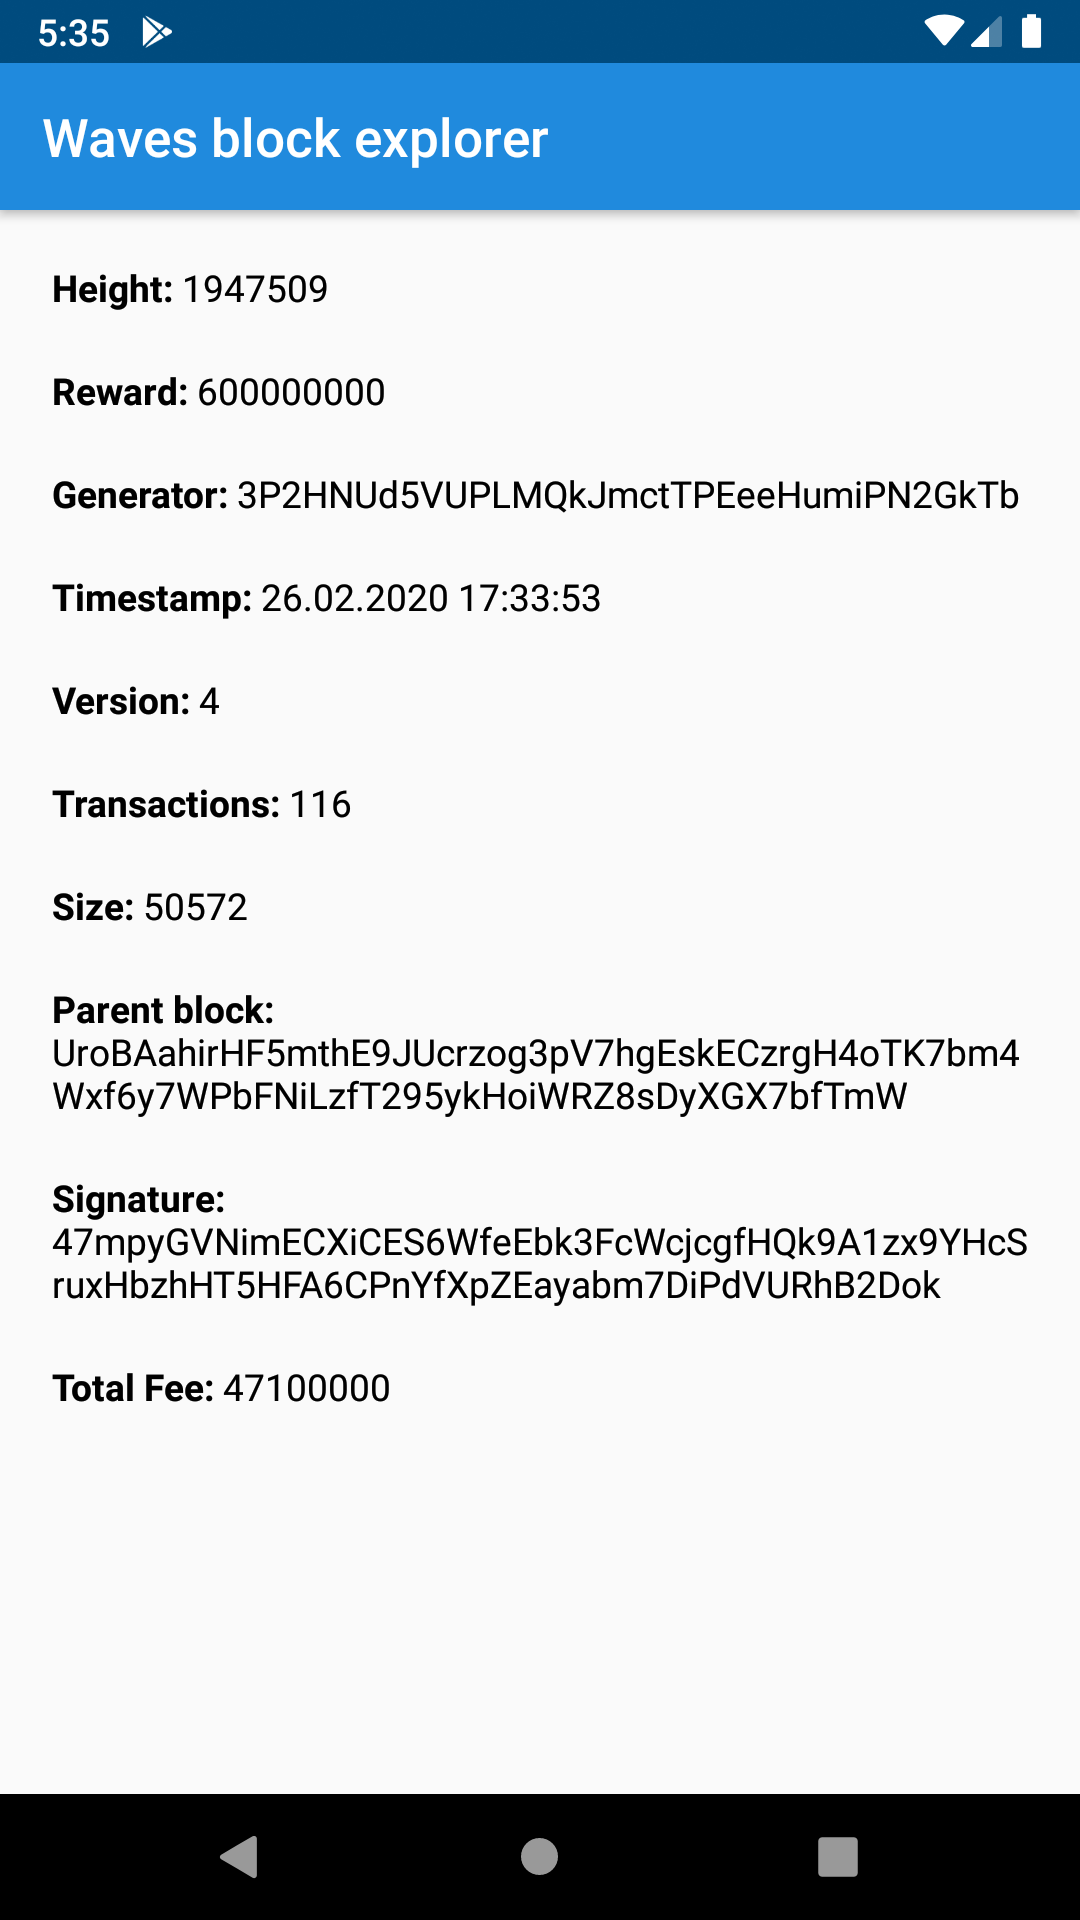
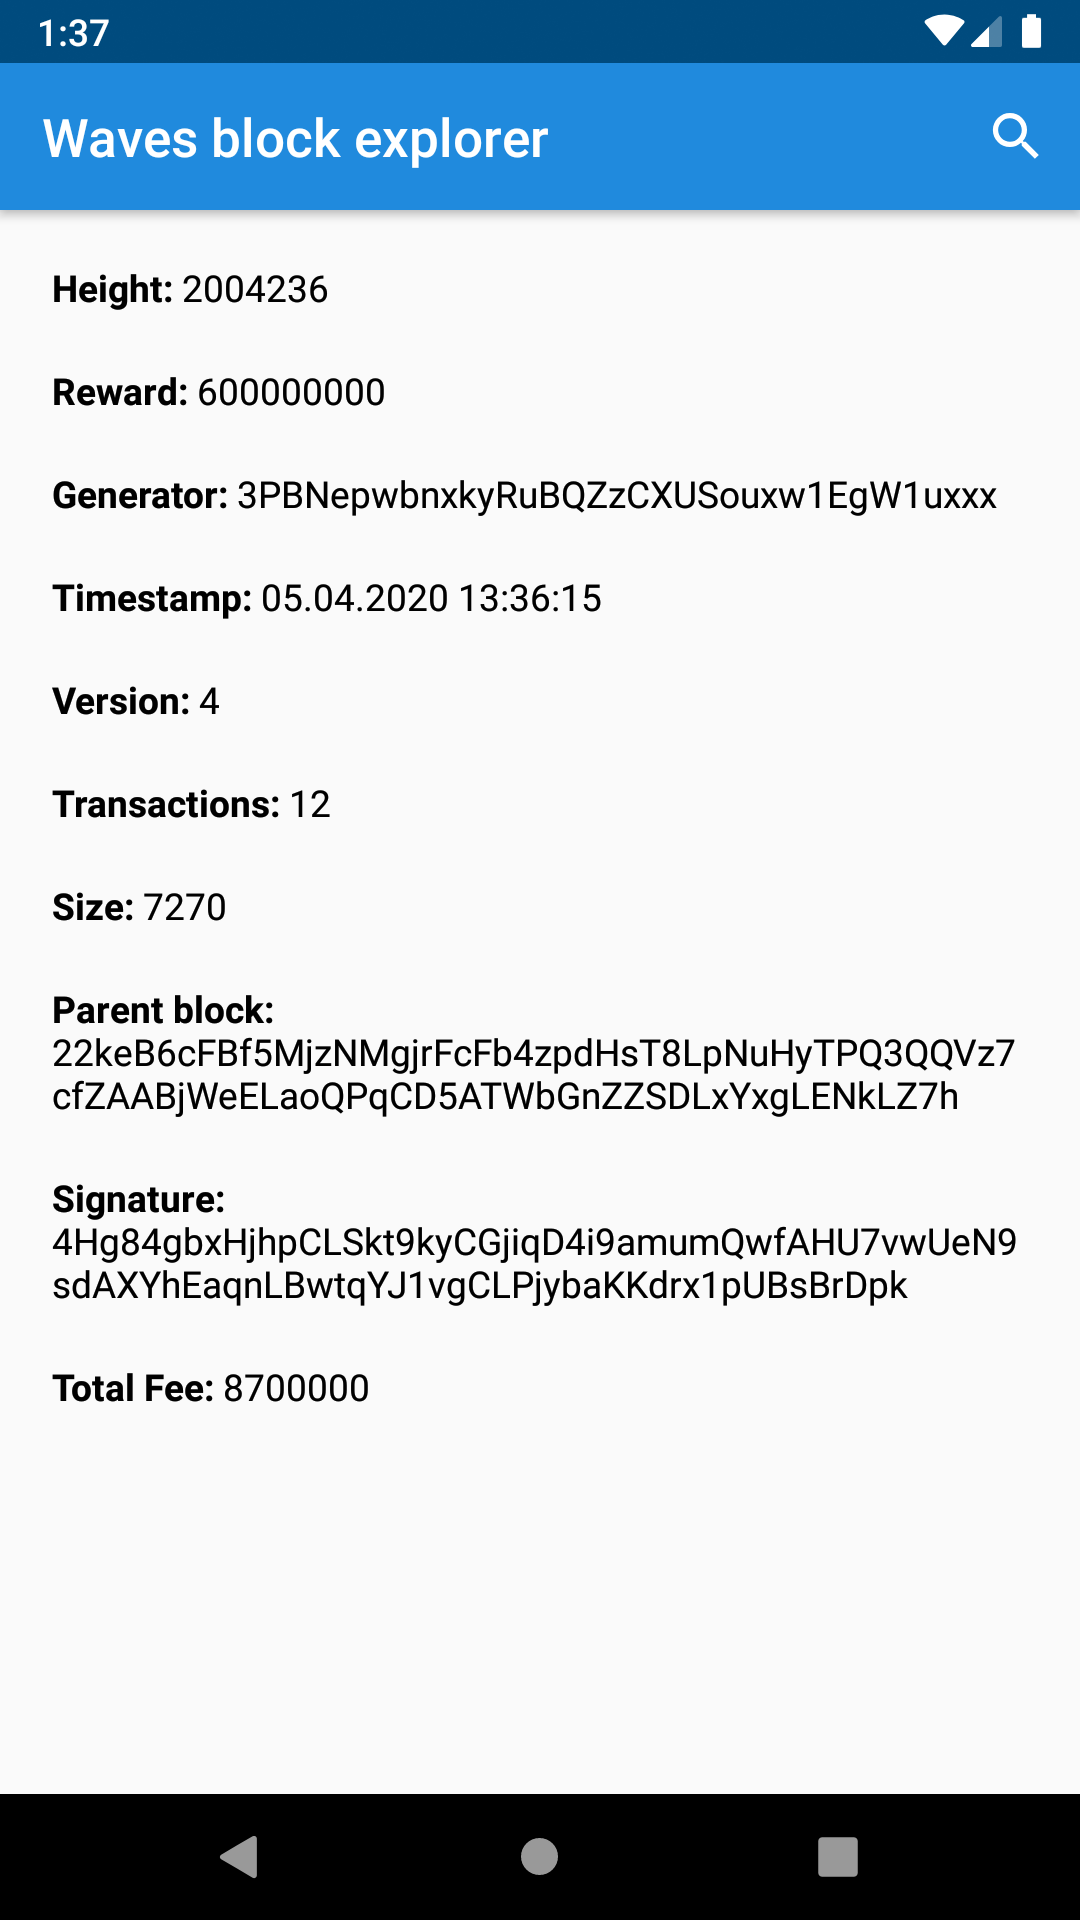
Тестовый поиск по номеру блока(скриншот в README)

diff --git a/README.md b/README.md
@@ -6,6 +6,8 @@
 
 ### Детальная информация
 
-
 <img src="img/detail.png" width="300" height="500" />
 
+### Поиск
+
+<img src="img/search.png" width="300" height="500" />
